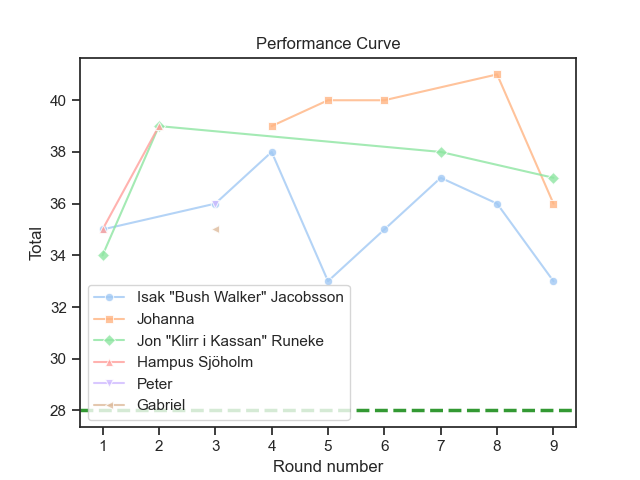
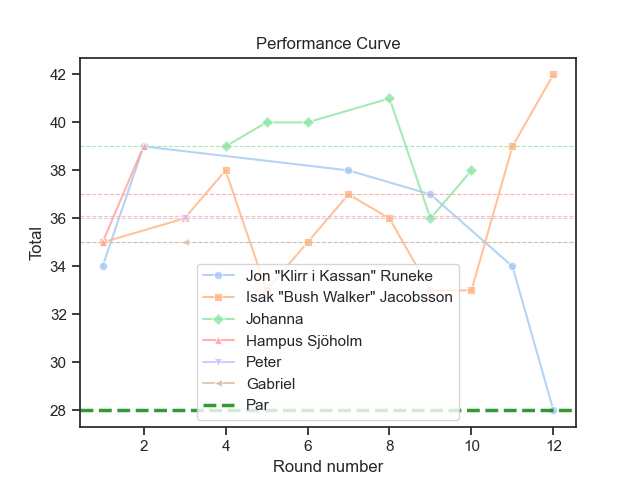
performance-curve: Add average line

diff --git a/udisc_analysis.py b/udisc_analysis.py
@@ -20,6 +20,7 @@ class Arg(Enum):
     X_AXIS_MODE     = 10
     COURSE_REQUIRED = 11
     LAYOUT_REQUIRED = 12
+    HIDE_AVG        = 13
 
 def valid_date(s):
     try:
@@ -192,7 +193,7 @@ def plot_distribution(df, output_path):
         plt.savefig(output_path, dpi=100)
     plt.show()
 
-def plot_performance_curve(df, par_df, players, stat, output_path, hide_par, x_axis_mode):
+def plot_performance_curve(df, par_df, players, stat, output_path, hide_par, x_axis_mode, hide_avg):
     sns.set_theme(style="ticks", palette="pastel")
 
     if players[0] == "All":
@@ -216,7 +217,13 @@ def plot_performance_curve(df, par_df, players, stat, output_path, hide_par, x_a
         marker = next(marker_cycle)
 
         # Plot stat for player
-        sns.lineplot(data=player_df, x=x_col, y=stat, label=player, marker=marker, alpha=0.8)
+        line = sns.lineplot(data=player_df, x=x_col, y=stat, label=player, marker=marker, alpha=0.8)
+
+        # Plot a line for the average
+        if not hide_avg:
+            player_average = player_df[stat].mean()
+            player_color = line.lines[-1].get_color()  # To get same color as the lineplot above
+            plt.axhline(y=player_average, linewidth=0.8, alpha=0.8, color=player_color, linestyle="--")
     
     if not hide_par:
         plt.axhline(y=par_df.loc[0, stat], label='Par', linewidth=2.5, alpha=0.8, color="green", linestyle="--")
@@ -224,6 +231,7 @@ def plot_performance_curve(df, par_df, players, stat, output_path, hide_par, x_a
     x_axis_label = "Round number" if x_axis_mode == "round" else "Date"
     plt.xlabel(x_axis_label)
     plt.title(f"Performance Curve")
+    plt.legend()
     if output_path:
         plt.savefig(output_path, dpi=100)
     plt.show()
@@ -291,7 +299,7 @@ def performance_curve(args):
     df = filter_df(df, args.course, args.layout, args.after, args.before, players=args.players, stat=args.stat)
     par_df = filter_df(par_df, args.course, args.layout, stat=args.stat)
 
-    plot_performance_curve(df, par_df, args.players, args.stat, args.output, args.hide_par, args.x_axis_mode)
+    plot_performance_curve(df, par_df, args.players, args.stat, args.output, args.hide_par, args.x_axis_mode, args.hide_avg)
 
 def hole_distribution(args):
     df, par_df = generate_dataframe(args.csv_dir)
@@ -385,6 +393,12 @@ def add_arguments(parser, *args):
             default='round',
             help="Choose 'date' to plot against actual dates or 'round' to plot by round number."
         )
+    if Arg.HIDE_AVG in args:
+        parser.add_argument(
+            "--hide-avg",
+            action="store_true",
+            help="Hide average in plot."
+        )
     return parser
 
 def main():
@@ -397,7 +411,7 @@ def main():
 
     # Performance curve subparser
     parser_perf = subparsers.add_parser("performance-curve", help="Plot performance curve.")
-    add_arguments(parser_perf, Arg.CSV_DIR, Arg.COURSE, Arg.COURSE_REQUIRED, Arg.LAYOUT, Arg.LAYOUT_REQUIRED, Arg.PLAYERS, Arg.AFTER, Arg.BEFORE, Arg.OUTPUT, Arg.STAT, Arg.HIDE_PAR, Arg.X_AXIS_MODE)
+    add_arguments(parser_perf, Arg.CSV_DIR, Arg.COURSE, Arg.COURSE_REQUIRED, Arg.LAYOUT, Arg.LAYOUT_REQUIRED, Arg.PLAYERS, Arg.AFTER, Arg.BEFORE, Arg.OUTPUT, Arg.STAT, Arg.HIDE_PAR, Arg.X_AXIS_MODE, Arg.HIDE_AVG)
 
     # Hole distribution subparser
     parser_course = subparsers.add_parser("hole-distribution", help="Analyze scores per course.")

diff --git a/README.md b/README.md
@@ -119,6 +119,7 @@ Which generates a plot, such as:
 - `--x-axis-mode` - Choose 'date' to plot against actual dates or 'round' to
   plot by round number.
 - `--hide-par` - Hide par reference in plot.
+- `--hide-avg` - Hide average in plot.
 
 ### Score Distribution
 
